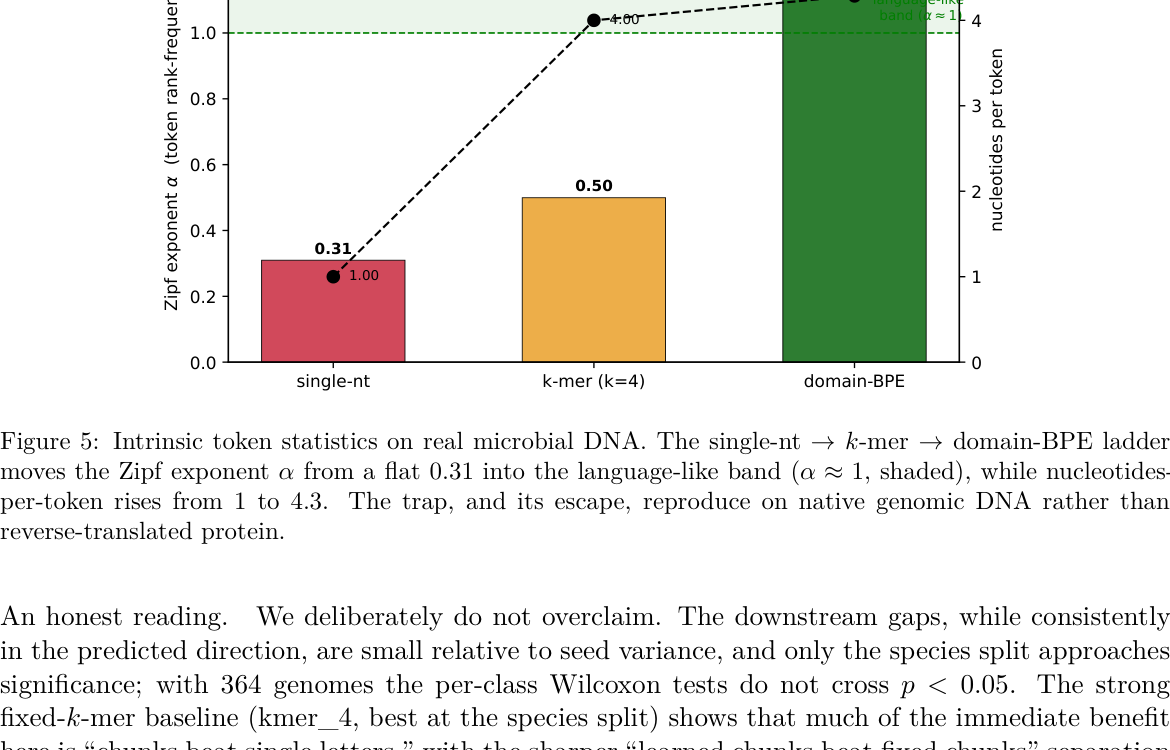
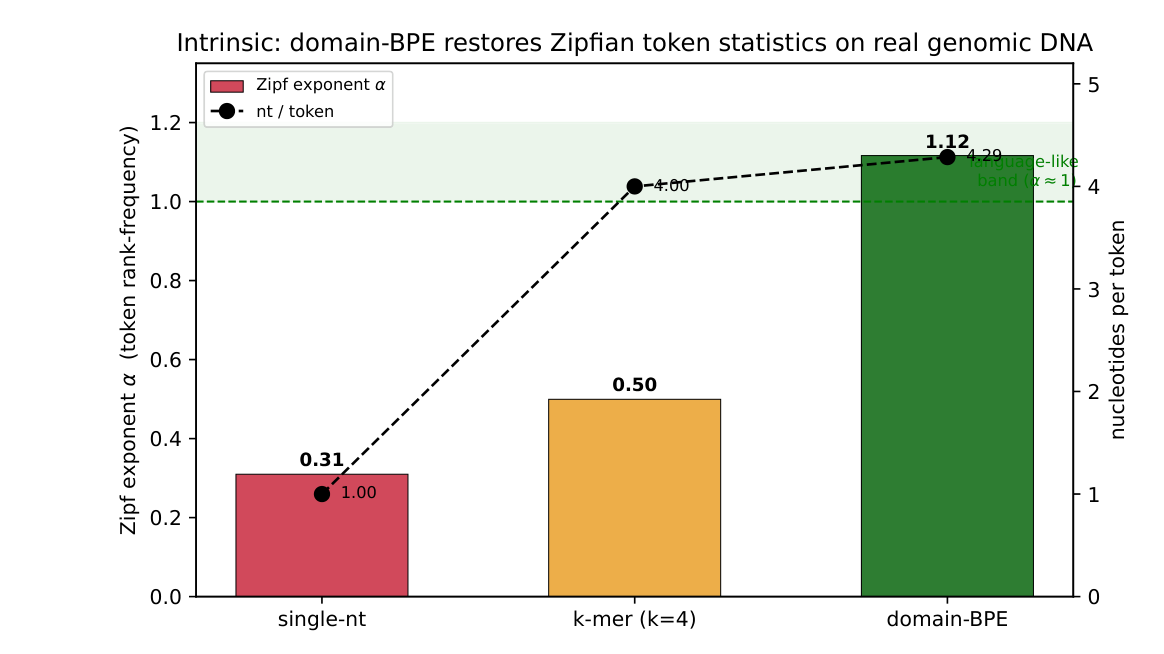
Refine Tokenization Trap paper: clean figures, microbe benchmark, em dashes
Re-extract figures 5-8 from the new manuscript as tight, caption-free
crops (splitting the combined per-head/Evo2 panel into two figures),
remove em dashes from the prose, and ship the updated PDF.

diff --git a/writing/tokenization-trap.html b/writing/tokenization-trap.html
@@ -5,7 +5,7 @@
 <meta name="viewport" content="width=device-width, initial-scale=1.0" />
 <link rel="canonical" href="https://replicater.xyz/writing/tokenization-trap" />
 <script src="/clean-urls.js?v=4"></script>
-<title>The Tokenization Trap: Domain-Adaptive BPE for Protein and Genome Language Models — Microbe 1%</title>
+<title>The Tokenization Trap: Domain-Adaptive BPE for Protein and Genome Language Models | Microbe 1%</title>
 <link rel="icon" type="image/svg+xml" href="/favicon.svg" />
 <link rel="preconnect" href="https://fonts.googleapis.com" />
 <link rel="preconnect" href="https://fonts.gstatic.com" crossorigin />
@@ -74,7 +74,7 @@
 </head>
 <body>
 <div class="bar">
-  <a class="wordmark" href="/"><span class="dot"></span>Microbe — 1%</a>
+  <a class="wordmark" href="/"><span class="dot"></span>Microbe 1%</a>
   <nav class="bar-nav">
     <a class="nav-link" href="/research/">Research</a>
     <a class="nav-link" href="/manifesto/">Manifesto</a>
@@ -85,7 +85,7 @@
 <article class="col" id="paper-content">
   <header class="article-head">
     <h1>The Tokenization Trap: Domain-Adaptive BPE Restores Language-Like Token Statistics for Protein and Genome Language Models</h1>
-    <p class="subtitle">Single-residue tokenization gives a flat, non-Zipfian token distribution that barely benefits from scale. Domain-trained BPE restores a language-like distribution and scales ~2× faster — on proteins, genomes, and a real 21-trait microbial benchmark over 364 native genomes.</p>
+    <p class="subtitle">Single-residue tokenization gives a flat, non-Zipfian token distribution that barely benefits from scale. Domain-trained BPE restores a language-like distribution and scales ~2× faster. The result holds on proteins, genomes, and a real 21-trait microbial benchmark over 364 native genomes.</p>
     <p class="byline">Miyu Horiuchi<span class="sep">·</span>Anherutowa Calvo<span class="sep">·</span>22 June 2026</p>
   </header>
 
@@ -135,11 +135,11 @@
       Moving from synthetic probes to a real benchmark, we couple each tokenizer to an
       external 21-trait microbial-phenotype task over 364 native genomes: domain BPE restores
       the Zipfian exponent on real genomic DNA (α: 0.31 → 1.12), wins the matched
-      single-nucleotide contrast at every taxonomic level, and — at ~3 M parameters — matches
+      single-nucleotide contrast at every taxonomic level, and, at ~3 M parameters, matches
       a 7-billion-parameter single-nucleotide genome model (Evo2). We conclude domain-specific
       subword tokenization is a <em>necessary but not sufficient</em> condition for
       language-like scaling: it fixes the input distribution, but the transformer still learns
-      correlation, not mechanism — motivating a spectral, mechanism-aware architecture.
+      correlation, not mechanism, motivating a spectral, mechanism-aware architecture.
     </p>
 
     <h2 id="trap">The tokenization trap</h2>
@@ -148,10 +148,10 @@
       Human language is Zipfian: a few very common tokens and a long tail of rare,
       information-dense ones. A protein is a string over 20 amino acids; a genome over 4
       nucleotides. Under single-residue tokenization the token distribution <em>is</em> the
-      marginal residue distribution — nearly flat, with no heavy tail. Our hypothesis: pLMs
+      marginal residue distribution: nearly flat, with no heavy tail. Our hypothesis: pLMs
       and gLMs scale poorly in part because single-residue tokenization yields non-Zipfian
-      token statistics, and domain-adaptive BPE — learning merges on biological corpora so
-      frequent motifs/<em>k</em>-mers become tokens — restores a language-like distribution.
+      token statistics, and domain-adaptive BPE, learning merges on biological corpora so
+      frequent motifs/<em>k</em>-mers become tokens, restores a language-like distribution.
       We contrast against the natural baseline of reusing a powerful existing LLM tokenizer
       (GPT-2's English BPE).
     </p>
@@ -171,7 +171,7 @@
     <p>
       On real Swiss-Prot, single-residue tokenization sits at α ≈ 0.5–0.6 with a poor
       power-law fit. Across a vocabulary sweep, domain BPE moves the exponent into the
-      language-like ≈ 1.0–1.2 band <em>with high r²</em> (≥ 0.9) — a genuinely Zipfian
+      language-like ≈ 1.0–1.2 band <em>with high r²</em> (≥ 0.9), a genuinely Zipfian
       distribution. The rank–frequency tail is flat for single residues and heavy-tailed for
       BPE.
     </p>
@@ -224,8 +224,8 @@
       Distribution is necessary but not sufficient, so we test modelling efficiency directly.
       We train an identical small Transformer ("TinyGPT") under each tokenizer, holding
       parameters, optimizer, steps, and data fixed, and evaluate with <strong>bits per
-      residue</strong> — total next-token negative log-likelihood divided by the raw
-      amino-acid characters scored — a tokenizer-agnostic compression metric. On a synthetic
+      residue</strong>, total next-token negative log-likelihood divided by the raw
+      amino-acid characters scored, a tokenizer-agnostic compression metric. On a synthetic
       motif corpus with strong embedded structure, domain BPE attains the lowest
       bits-per-residue (3.535 at vocab 256 vs 3.869 for single residues, ≈ 9% lower), while
       GPT-2's English BPE is worst by a wide margin despite its large embedding table.
@@ -233,7 +233,7 @@
 
     <div class="data-table">
       <table>
-        <caption><b>Scaling proof at fixed size.</b> Identical TinyGPT per tokenizer; bits-per-residue (bpr) is vocabulary-agnostic — lower is better.</caption>
+        <caption><b>Scaling proof at fixed size.</b> Identical TinyGPT per tokenizer; bits-per-residue (bpr) is vocabulary-agnostic; lower is better.</caption>
         <thead>
           <tr><th>Tokenizer</th><th>Vocab</th><th>Params</th><th>tok/res</th><th>bpr ↓</th></tr>
         </thead>
@@ -251,7 +251,7 @@
       <figcaption><b>Fixed-size scaling proof.</b> Identical TinyGPT per tokenizer; only the tokenizer changes. Domain BPE compresses best, GPT-2 English BPE worst.</figcaption>
     </figure>
 
-    <h2 id="gpt2">Why GPT-2 English BPE is special — and unstable</h2>
+    <h2 id="gpt2">Why GPT-2 English BPE is special, and unstable</h2>
     <p>
       GPT-2's merges are frozen English byte-pairs; applied to biology they fall on arbitrary
       residue boundaries. The resulting token distribution is <em>not</em> a power law: its
@@ -260,7 +260,7 @@
       (~2.0). Any single "exponent" for GPT-2 is therefore fragile. We always report the fit
       r² so misfit rows are visible, and use a robust chunk-median estimator when r² &lt; 0.80.
       The decisive evidence against GPT-2 is the modelling result, which needs no curve fit and
-      ranks it worst: <em>reusing a strong LLM tokenizer does not work</em> — the merges must
+      ranks it worst: <em>reusing a strong LLM tokenizer does not work</em>; the merges must
       be learned on the target domain.
     </p>
 
@@ -287,7 +287,7 @@
 
     <figure class="figure">
       <img src="/writing/figures/tokenization-trap-fig3-scaling-curve.png" alt="Log-log plot of bits-per-residue versus non-embedding parameters for four tokenizers. Single-AA is a nearly flat low line; domain BPE lines slope down ~2x steeper and converge toward it; GPT-2 English BPE is a high line that drops steeply but stays worst." />
-      <figcaption><b>Scaling curve on real Swiss-Prot.</b> Single-residue tokenization (red) is nearly flat — scaling barely helps. Domain BPE (blue/green) has a ~2× steeper slope and converges toward the single-AA line. GPT-2 English BPE (orange) is worst at every size.</figcaption>
+      <figcaption><b>Scaling curve on real Swiss-Prot.</b> Single-residue tokenization (red) is nearly flat; scaling barely helps. Domain BPE (blue/green) has a ~2× steeper slope and converges toward the single-AA line. GPT-2 English BPE (orange) is worst at every size.</figcaption>
     </figure>
 
     <div class="data-table">
@@ -323,7 +323,7 @@
       contradictory: GPT-2's 50k-token vocabulary exposes arbitrary orderings to a linear
       classifier (presence detection), but those misaligned merges make it a poor next-token
       model of biology. Domain BPE is the only tokenizer strong on <em>both</em> axes with a
-      tiny vocabulary — exactly the profile a scalable foundation model needs.
+      tiny vocabulary, exactly the profile a scalable foundation model needs.
     </p>
 
     <figure class="figure">
@@ -350,7 +350,7 @@
     <p>
       The composition-controlled probe isolates order/motif sensitivity by construction, but
       does the tokenization advantage survive on <em>real genomes</em> and a <em>real functional
-      task</em>? We couple our tokenizers to an external benchmark — microbe-foundation — which
+      task</em>? We couple our tokenizers to an external benchmark, microbe-foundation, which
       predicts 21 heterogeneous microbial traits (gram stain, oxygen tolerance, motility,
       pathogenicity, cultivation medium, and more) from a single frozen feature vector per
       genome, under strict taxonomic holdouts at the species, genus, and family levels.
@@ -370,7 +370,7 @@
       vocabulary 1024, 4.29 nt/token). Domain BPE attains the best or tied-best score at every
       taxonomic level and beats the single-nucleotide control on all three splits. Notably, a
       ~3 M-parameter domain-BPE TinyGPT matches or exceeds the 7-billion-parameter Evo2
-      reference (0.568 vs 0.560 at the species split) — how the genome is tokenized can
+      reference (0.568 vs 0.560 at the species split): how the genome is tokenized can
       outweigh three orders of magnitude of scale spent on single nucleotides.
     </p>
 
@@ -401,14 +401,19 @@
     </div>
 
     <figure class="figure">
-      <img src="/writing/figures/tokenization-trap-fig7-8-microbe-detail.png" alt="Per-head gap by trait class and per-trait comparison of domain BPE vs Evo2-7B." />
-      <figcaption><b>Where domain BPE helps.</b> Per-head gap by trait class (top) and per-trait species-split comparison: a ~3 M-parameter domain-BPE model vs 7B Evo2 (bottom).</figcaption>
+      <img src="/writing/figures/tokenization-trap-fig7-perhead-gap.png" alt="Bar chart of per-head score gap between domain-BPE and single-nt by trait class across species, genus, and family splits." />
+      <figcaption><b>Where domain BPE helps.</b> Per-head gap Δ(domain-BPE − single-nt) by trait class and split. The advantage is consistently positive but small relative to seed noise.</figcaption>
+    </figure>
+
+    <figure class="figure">
+      <img src="/writing/figures/tokenization-trap-fig8-vs-evo2.png" alt="Scatter of per-trait scores: a ~3M-parameter domain-BPE model versus the 7B single-nucleotide Evo2 model on the species split. Most points sit on or above the diagonal." />
+      <figcaption><b>A tiny domain-BPE model vs a 7B genome model</b> (species split). Most heads sit on or above the diagonal: tokenization buys with ~3 M params what scale does not buy Evo2 with 7B.</figcaption>
     </figure>
 
     <p>
       We deliberately do not overclaim: the downstream gaps are small relative to seed variance,
       and pooling Evo2's per-nucleotide states along BPE spans does not help a model already
-      trained per nucleotide — tokenization must be present at training time, not retrofitted at
+      trained per nucleotide; tokenization must be present at training time, not retrofitted at
       read-out. The load-bearing signals are qualitative: (i) Zipfian restoration holds on real
       genomic DNA, (ii) domain BPE wins the matched contrast at every taxonomic level, and (iii)
       a tiny domain-BPE model is competitive with a 7B single-nucleotide foundation model.
@@ -432,14 +437,14 @@
       and (ii) maintains a multi-scale residual stream pooled along BPE merge boundaries so the
       residue→motif→domain hierarchy is explicit. This is testable in exactly this paper's
       harness: fix the domain BPE tokenizer, swap <em>only</em> the attention block, and compare
-      bits-per-residue and probe accuracy at matched parameters — with the prediction that the
+      bits-per-residue and probe accuracy at matched parameters, with the prediction that the
       spectral bias, not added parameters, drives the gain.
     </p>
 
     <h2 id="takeaway">What it means</h2>
     <p>
       Single-residue tokenization imposes a non-Zipfian token distribution that starves the
-      scaling pressure language models exploit — the tokenization trap. Domain-adaptive BPE
+      scaling pressure language models exploit: the tokenization trap. Domain-adaptive BPE
       escapes it: genuinely Zipfian, high-r² statistics; ~2× faster conversion of scale into
       compression; and features that recover motif structure single-residue features cannot.
       An English-trained BPE does none of this for modelling. These claims, established
@@ -448,7 +453,7 @@
       single-nucleotide gLM.
     </p>
     <p>
-      Tokenization is a first-class design axis for biological sequence models — but it is only
+      Tokenization is a first-class design axis for biological sequence models, but it is only
       the first of two bottlenecks. A correct input distribution still feeds an architecture
       that learns correlation, not mechanism. Unlocking LLM-style scaling for biology will
       require pairing a domain-derived tokenizer with a domain-derived, spectral,
@@ -468,7 +473,7 @@
     </p>
 
     <p class="keywords">
-      Keywords — tokenization · byte-pair encoding · Zipf's law · scaling laws · protein
+      Keywords: tokenization · byte-pair encoding · Zipf's law · scaling laws · protein
       language models · genome language models · microbial trait prediction · Evo2 · bits per
       residue · spectral attention
     </p>